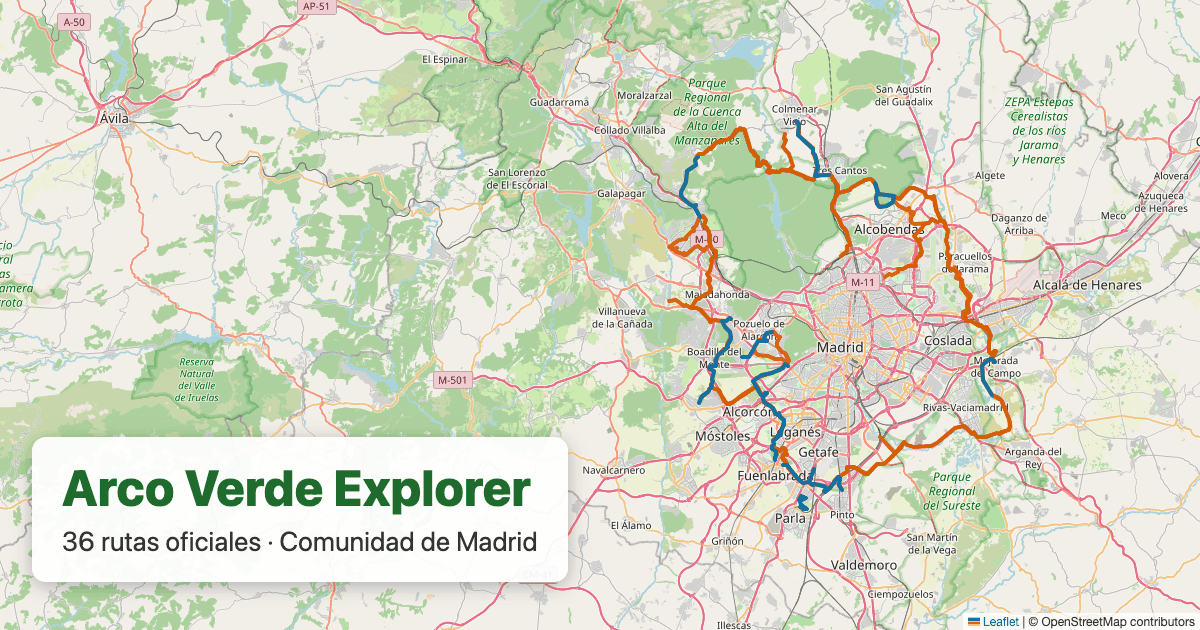
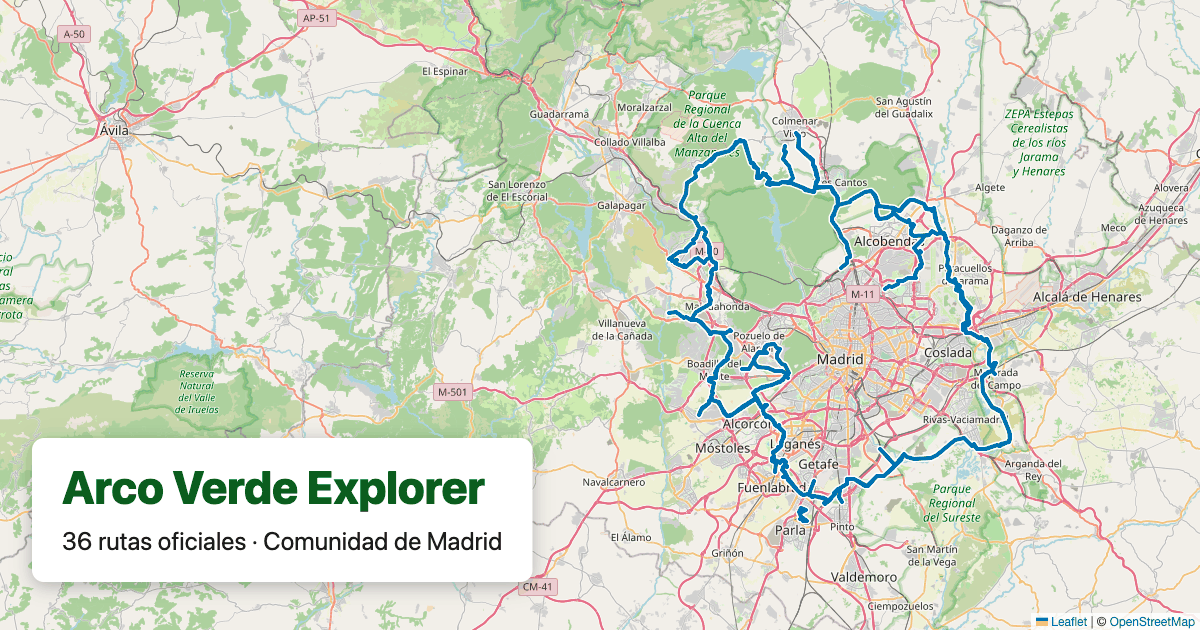
fix: refreshed link preview, fit clear of map controls, add planner points by keyboard

diff --git a/src/App.tsx b/src/App.tsx
@@ -82,7 +82,12 @@ function FitBounds({ bounds, nonce }: { bounds: LatLngBounds; nonce: number }) {
   useEffect(() => {
     if (!bounds.isValid()) return
     const sheet = media('(max-width: 767px)') ? (document.querySelector<HTMLElement>('.panel')?.offsetHeight ?? 0) : 0
-    map.fitBounds(bounds, { paddingTopLeft: [24, 24], paddingBottomRight: [24, 24 + sheet], animate: !media('(prefers-reduced-motion: reduce)') })
+    const box = map.getContainer().getBoundingClientRect()
+    const ctl = map.getContainer().querySelector('.leaflet-top.leaflet-left')!.getBoundingClientRect()
+    const [w, h] = [ctl.right - box.left, ctl.bottom - box.top]
+    // Padding is a rectangle, so clear the corner controls along whichever side costs less of the visible map.
+    const [left, top] = w / box.width < h / (box.height - sheet) ? [w, 0] : [0, h]
+    map.fitBounds(bounds, { paddingTopLeft: [24 + left, 48 + top], paddingBottomRight: [24, 24 + sheet], animate: !media('(prefers-reduced-motion: reduce)') })
   }, [map, bounds, nonce])
   return null
 }
@@ -187,7 +192,7 @@ function PlanLayer({ points, edit }: { points: Position[]; edit: Edit }) {
   }, [map, edit])
   return (
     <Pane name="plan" style={{ zIndex: 440 }}>
-      <Polyline positions={points.map(([lon, lat]) => [lat, lon])} pathOptions={{ color: PLAN, weight: 4, dashArray: '8 6', interactive: false }} />
+      <Polyline positions={points.map(([lon, lat]): LatLngTuple => [lat, lon])} pathOptions={{ color: PLAN, weight: 4, dashArray: '8 6', interactive: false }} />
       {points.map(([lon, lat], i) => (
         <Marker key={i} position={[lat, lon]} icon={pin(i + 1)} draggable title={`Punto ${i + 1}: arrástralo para moverlo o púlsalo para eliminarlo`} eventHandlers={{
           dragend: (e) => { dragEnd.current = Date.now(); const ll = e.target.getLatLng(); edit((p) => p.map((q, j) => (j === i ? [round5(ll.lng), round5(ll.lat)] : q))) },
@@ -210,6 +215,7 @@ export default function App() {
   const [nearMe, setNearMe] = useState(false)
   const [plan, setPlan] = useState<{ points: Position[]; past: Position[][]; edited?: boolean } | null>(null)
   const [planView, setPlanView] = useState<LatLngBounds | null>(null)
+  const mapRef = useRef<LeafletMap>(null)
 
   useEffect(() => {
     fetch('/data/routes.geojson')
@@ -332,12 +338,19 @@ export default function App() {
           canUndo: plan.past.length > 0,
           undo: () => setPlan({ points: plan.past.at(-1)!, past: plan.past.slice(0, -1), edited: true }),
           clear: () => editPlan(() => []),
+          addCenter: () => {
+            const map = mapRef.current!
+            const box = map.getContainer().getBoundingClientRect()
+            const x = document.querySelector('.crosshair')!.getBoundingClientRect()
+            const ll = map.containerPointToLatLng([x.left + x.width / 2 - box.left, x.top + x.height / 2 - box.top])
+            editPlan((p) => [...p, [round5(ll.lng), round5(ll.lat)]])
+          },
           exit: () => { setPlan(null); setPlanView(null) },
         }}
         onPlan={startPlan}
       />
       <section className="map" aria-label="Mapa de rutas">
-        <MapContainer bounds={bounds} maxBounds={network?.pad(3)} maxBoundsViscosity={1} maxZoom={19} className="leaflet-map" zoomControl={false} attributionControl={false} zoomAnimation={!reduce} fadeAnimation={!reduce} markerZoomAnimation={!reduce}>
+        <MapContainer ref={mapRef} bounds={bounds} maxBounds={network?.pad(3)} maxBoundsViscosity={1} maxZoom={19} className="leaflet-map" zoomControl={false} attributionControl={false} zoomAnimation={!reduce} fadeAnimation={!reduce} markerZoomAnimation={!reduce}>
           <MapSetup network={network} />
           <ZoomControl zoomInTitle="Acercar" zoomOutTitle="Alejar" />
           <ShowAllControl onClick={showAll} />
@@ -355,6 +368,7 @@ export default function App() {
           {plan ? <PlanLayer points={plan.points} edit={editPlan} /> : <Picking visible={visible} geoms={geoms} onSelect={select} />}
           <FitBounds bounds={bounds} nonce={fitNonce} />
         </MapContainer>
+        {plan && <div className="crosshair" aria-hidden="true" />}
       </section>
     </div>
   )

diff --git a/src/Panel.tsx b/src/Panel.tsx
@@ -55,7 +55,7 @@ function useShare() {
   return [msg, share] as const
 }
 
-export type Planner = { points: Position[]; canUndo: boolean; undo: () => void; clear: () => void; exit: () => void }
+export type Planner = { points: Position[]; canUndo: boolean; undo: () => void; clear: () => void; exit: () => void; addCenter: () => void }
 
 const summary = (p: RouteFeature['properties']) =>
   [CATEGORY[p.category], p.type, p.elevationGainM !== null && `desnivel ${p.elevationGainM} m`].filter(Boolean).join(' · ')
@@ -214,7 +214,7 @@ export function Panel({ data, visible, filters, onFiltersChange, selectedId, onS
 
 const pageUrl = (hash: string) => `${location.href.split('#')[0]}${hash}`
 
-function PlannerSection({ planner: { points, canUndo, undo, clear, exit } }: { planner: Planner }) {
+function PlannerSection({ planner: { points, canUndo, undo, clear, exit, addCenter } }: { planner: Planner }) {
   const [shareMsg, share] = useShare()
   const m = planMeters(points)
   return (
@@ -222,6 +222,7 @@ function PlannerSection({ planner: { points, canUndo, undo, clear, exit } }: { p
       <h2 className="section-title" id="planner-heading">Crear ruta</h2>
       <p className="note">Toca el mapa para añadir puntos. Arrástralos para moverlos o púlsalos para eliminarlos.</p>
       <div className="actions">
+        <button type="button" onClick={addCenter} disabled={points.length >= MAX_POINTS}>Añadir punto en el centro del mapa</button>
         <button type="button" onClick={undo} disabled={!canUndo}>Deshacer</button>
         <button type="button" onClick={clear} disabled={!points.length}>Borrar</button>
         <button type="button" onClick={exit}>Salir</button>

diff --git a/src/Panel.test.tsx b/src/Panel.test.tsx
@@ -248,7 +248,7 @@ it('offers the planner and seeds it from the selected route start', () => {
 })
 
 it('shows planner metrics, labels and controls', async () => {
-  const planner = { points: [[-3.7038, 40.4168], [-3.6921, 40.4193]], canUndo: false, undo: vi.fn(), clear: vi.fn(), exit: vi.fn() }
+  const planner = { points: [[-3.7038, 40.4168], [-3.6921, 40.4193]], canUndo: false, undo: vi.fn(), clear: vi.fn(), exit: vi.fn(), addCenter: vi.fn() }
   const writeText = vi.fn().mockResolvedValue(undefined)
   Object.assign(navigator, { clipboard: { writeText }, share: undefined })
   render(<Harness selectedId={null} planner={planner} />)
@@ -265,4 +265,15 @@ it('shows planner metrics, labels and controls', async () => {
   fireEvent.click(section.getByRole('button', { name: 'Compartir' }))
   expect(await section.findByText('Enlace copiado')).toBeInTheDocument()
   expect(writeText).toHaveBeenCalledWith(expect.stringMatching(/#plan=40\.4168,-3\.7038;40\.4193,-3\.6921$/))
+})
+
+it('adds a planner point at the map centre from the keyboard', () => {
+  const planner = { points: [], canUndo: false, undo: vi.fn(), clear: vi.fn(), exit: vi.fn(), addCenter: vi.fn() }
+  const { rerender } = render(<Harness selectedId={null} planner={planner} />)
+  const add = screen.getByRole('button', { name: 'Añadir punto en el centro del mapa' })
+  add.focus()
+  fireEvent.click(add)
+  expect(planner.addCenter).toHaveBeenCalledOnce()
+  rerender(<Harness selectedId={null} planner={{ ...planner, points: Array.from({ length: 200 }, () => [-3.7, 40.4]) }} />)
+  expect(screen.getByRole('button', { name: 'Añadir punto en el centro del mapa' })).toBeDisabled()
 })

diff --git a/src/App.css b/src/App.css
@@ -102,6 +102,8 @@ button[aria-disabled='true'] { opacity: 0.6; cursor: progress; }
 .panel[data-planning='true'] .panel-body > :not(.planner, .attribution) { display: none; }
 .planner p { margin: 0 0 0.4rem; }
 button:disabled { opacity: 0.5; cursor: not-allowed; }
+.map { position: relative; }
+.crosshair { position: absolute; left: 50%; top: 50%; width: 28px; height: 28px; margin: -14px 0 0 -14px; z-index: 500; pointer-events: none; background: linear-gradient(#e66100, #e66100) center / 2px 100% no-repeat, linear-gradient(#e66100, #e66100) center / 100% 2px no-repeat; filter: drop-shadow(0 0 1px #fff) drop-shadow(0 0 1px #fff); }
 .plan-pin { display: flex; align-items: center; justify-content: center; border-radius: 50%; background: #e66100; border: 3px solid #fff; color: #fff; font-weight: 700; font-size: 0.8rem; box-shadow: 0 1px 4px rgb(0 0 0 / 0.4); }
 
 .attribution { margin-top: 1rem; padding-top: 0.5rem; border-top: 1px solid var(--border); font-size: 0.8rem; color: var(--muted); }
@@ -121,6 +123,7 @@ button:disabled { opacity: 0.5; cursor: not-allowed; }
   .sheet-toggle { display: inline-block; }
   h1 { font-size: 1rem; }
   .intro { display: none; }
+  .crosshair { top: 27.5dvh; }
 }
 
 @media (pointer: coarse) {
